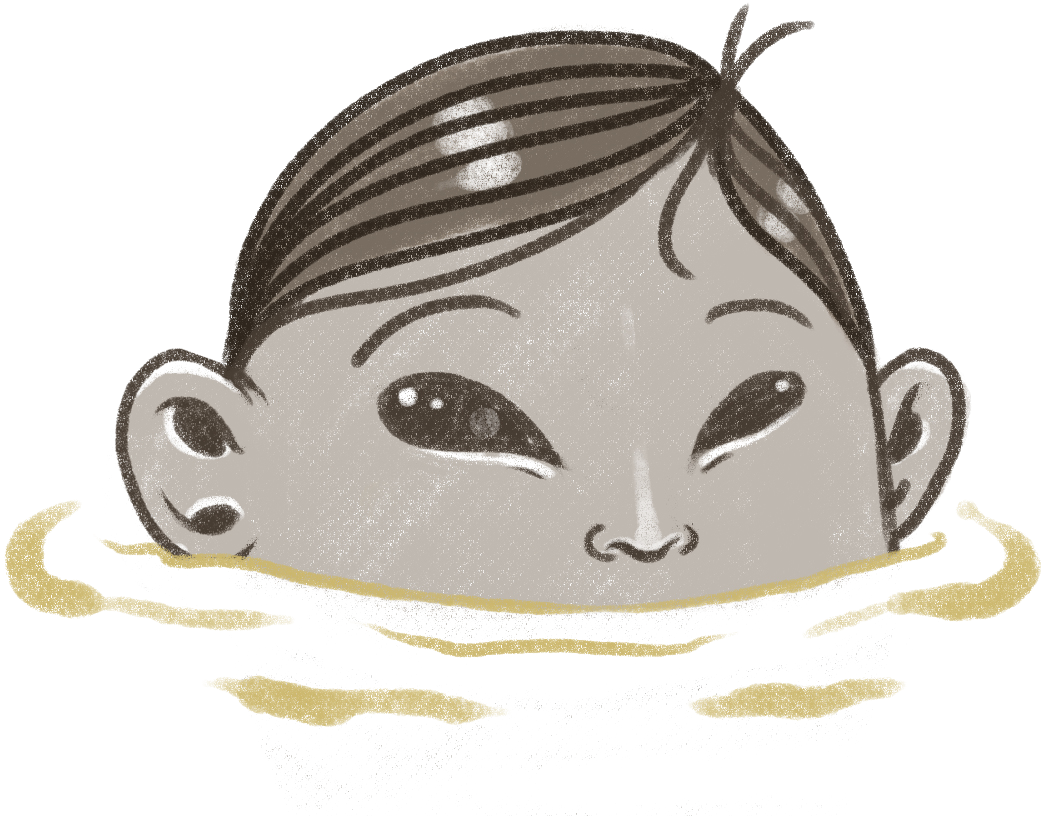
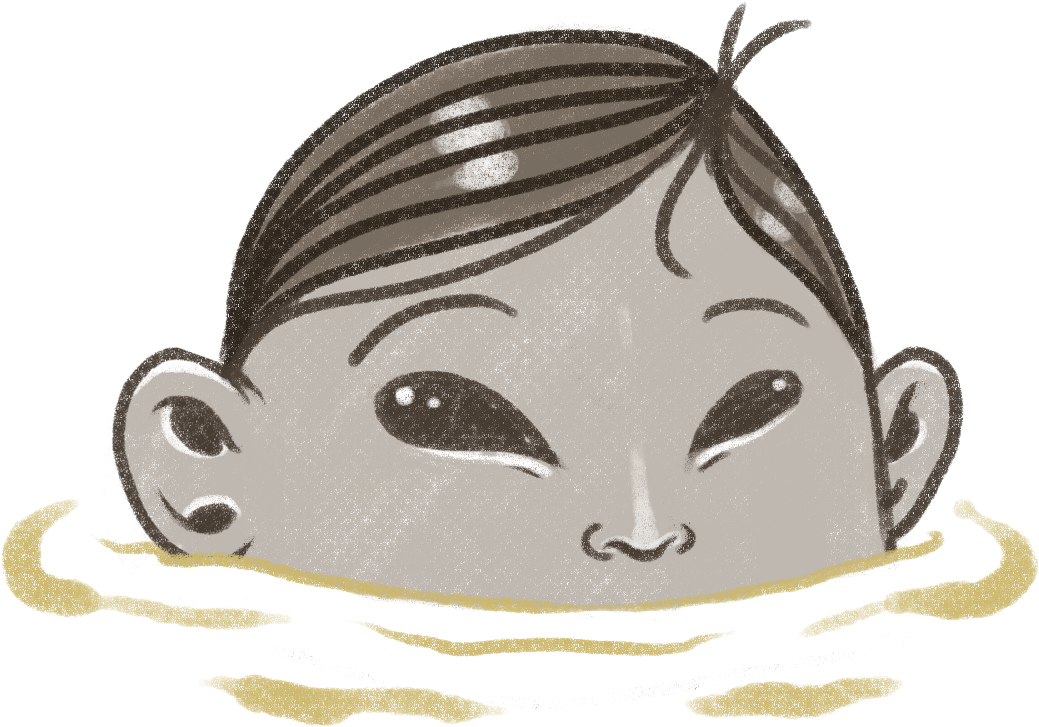
substitui imagens e prefixa translate
- transformar prefixos em mixins depois
- falta substituir assinatura

diff --git a/css/home.scss b/css/home.scss
@@ -28,7 +28,10 @@
 			margin-top: 50vh;
 			left:0;
 			height: 50vh;
-			background-color: $areia;
+			background-image: url("../img/lago.png");
+			background-position: top;
+			background-size: cover;
+			background-repeat: no-repeat;
 		}
 
 		.menino {	
@@ -36,7 +39,11 @@
 			height: auto;
 			top: 50vh;
 			left: 50%;
-			transform: translate(-50%, -50%);
+			-ms-transform: translate(calc(-50% - #{$leading/2}), -50%);
+			-webkit-transform: translate(calc(-50% - #{$leading/2}), -50%);
+			-moz-transform: translate(calc(-50% - #{$leading/2}), -50%);
+			-o-transform: translate(calc(-50% - #{$leading/2}), -50%);
+			transform: translate(calc(-50% - #{$leading/2}), -50%);
 		}
 
 	.conteudo-container {
@@ -52,7 +59,11 @@
 				@include flex-wrap (wrap);
 				@include align-items (flex-end);
 				@include align-content (center);
-				transform: translateY(50%);
+				-ms-transform: translateY(calc(50% + #{2*$leading}));
+				-webkit-transform: translateY(calc(50% + #{2*$leading}));
+				-moz-transform: translateY(calc(50% + #{2*$leading}));
+				-o-transform: translateY(calc(50% + #{2*$leading}));
+				transform: translateY(calc(50% + #{2*$leading}));
 			}
 		}
 	}
